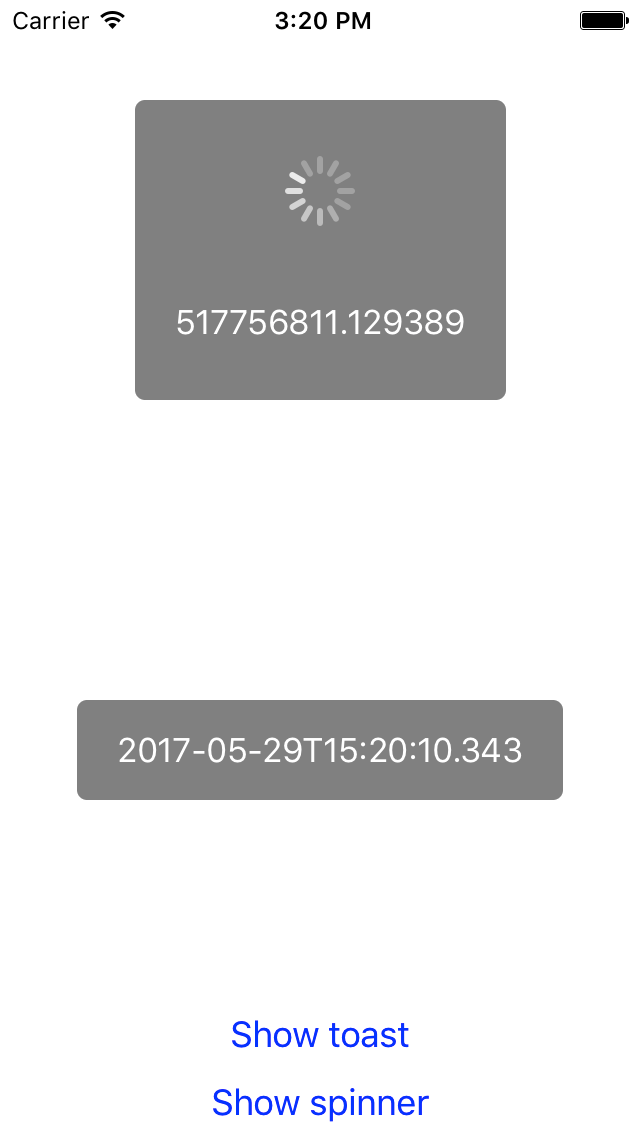
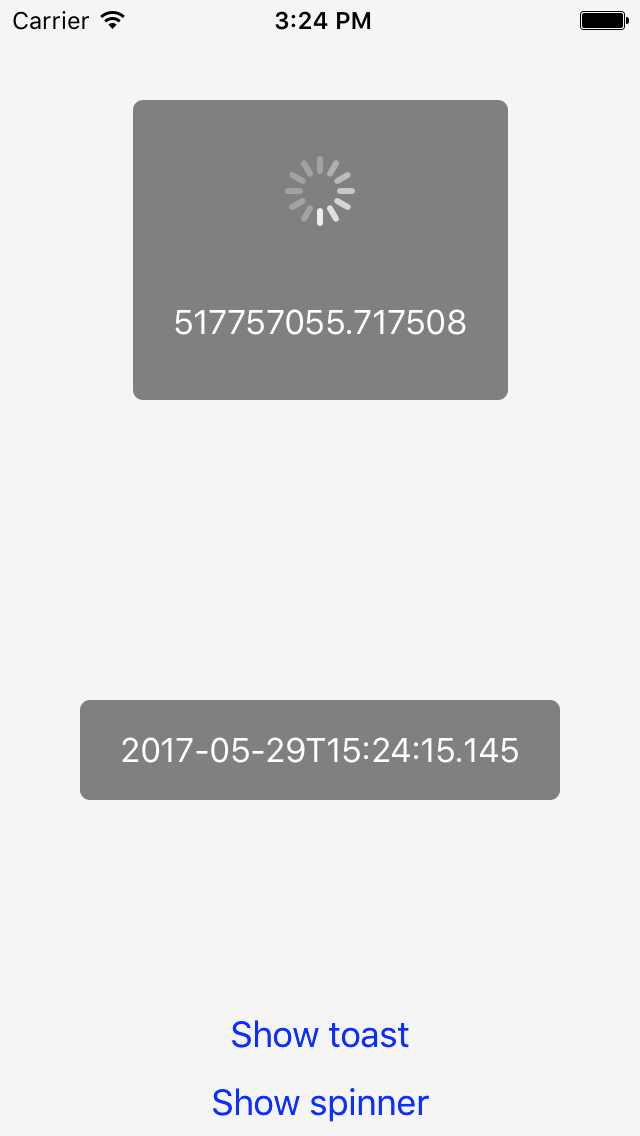
Adding screenshot

diff --git a/VISpinnerViewExample/ViewController.swift b/VISpinnerViewExample/ViewController.swift
@@ -33,6 +33,8 @@ class ViewController: UIViewController {
     override func viewDidLoad() {
         super.viewDidLoad()
 
+        self.view.backgroundColor = UIColor(white: 0.96, alpha: 1.0)
+
         self.spinnerButton.translatesAutoresizingMaskIntoConstraints = false
         self.spinnerButton.setTitle("Show spinner", for: .normal)
         self.spinnerButton.setTitleColor(UIColor.blue, for: .normal)
